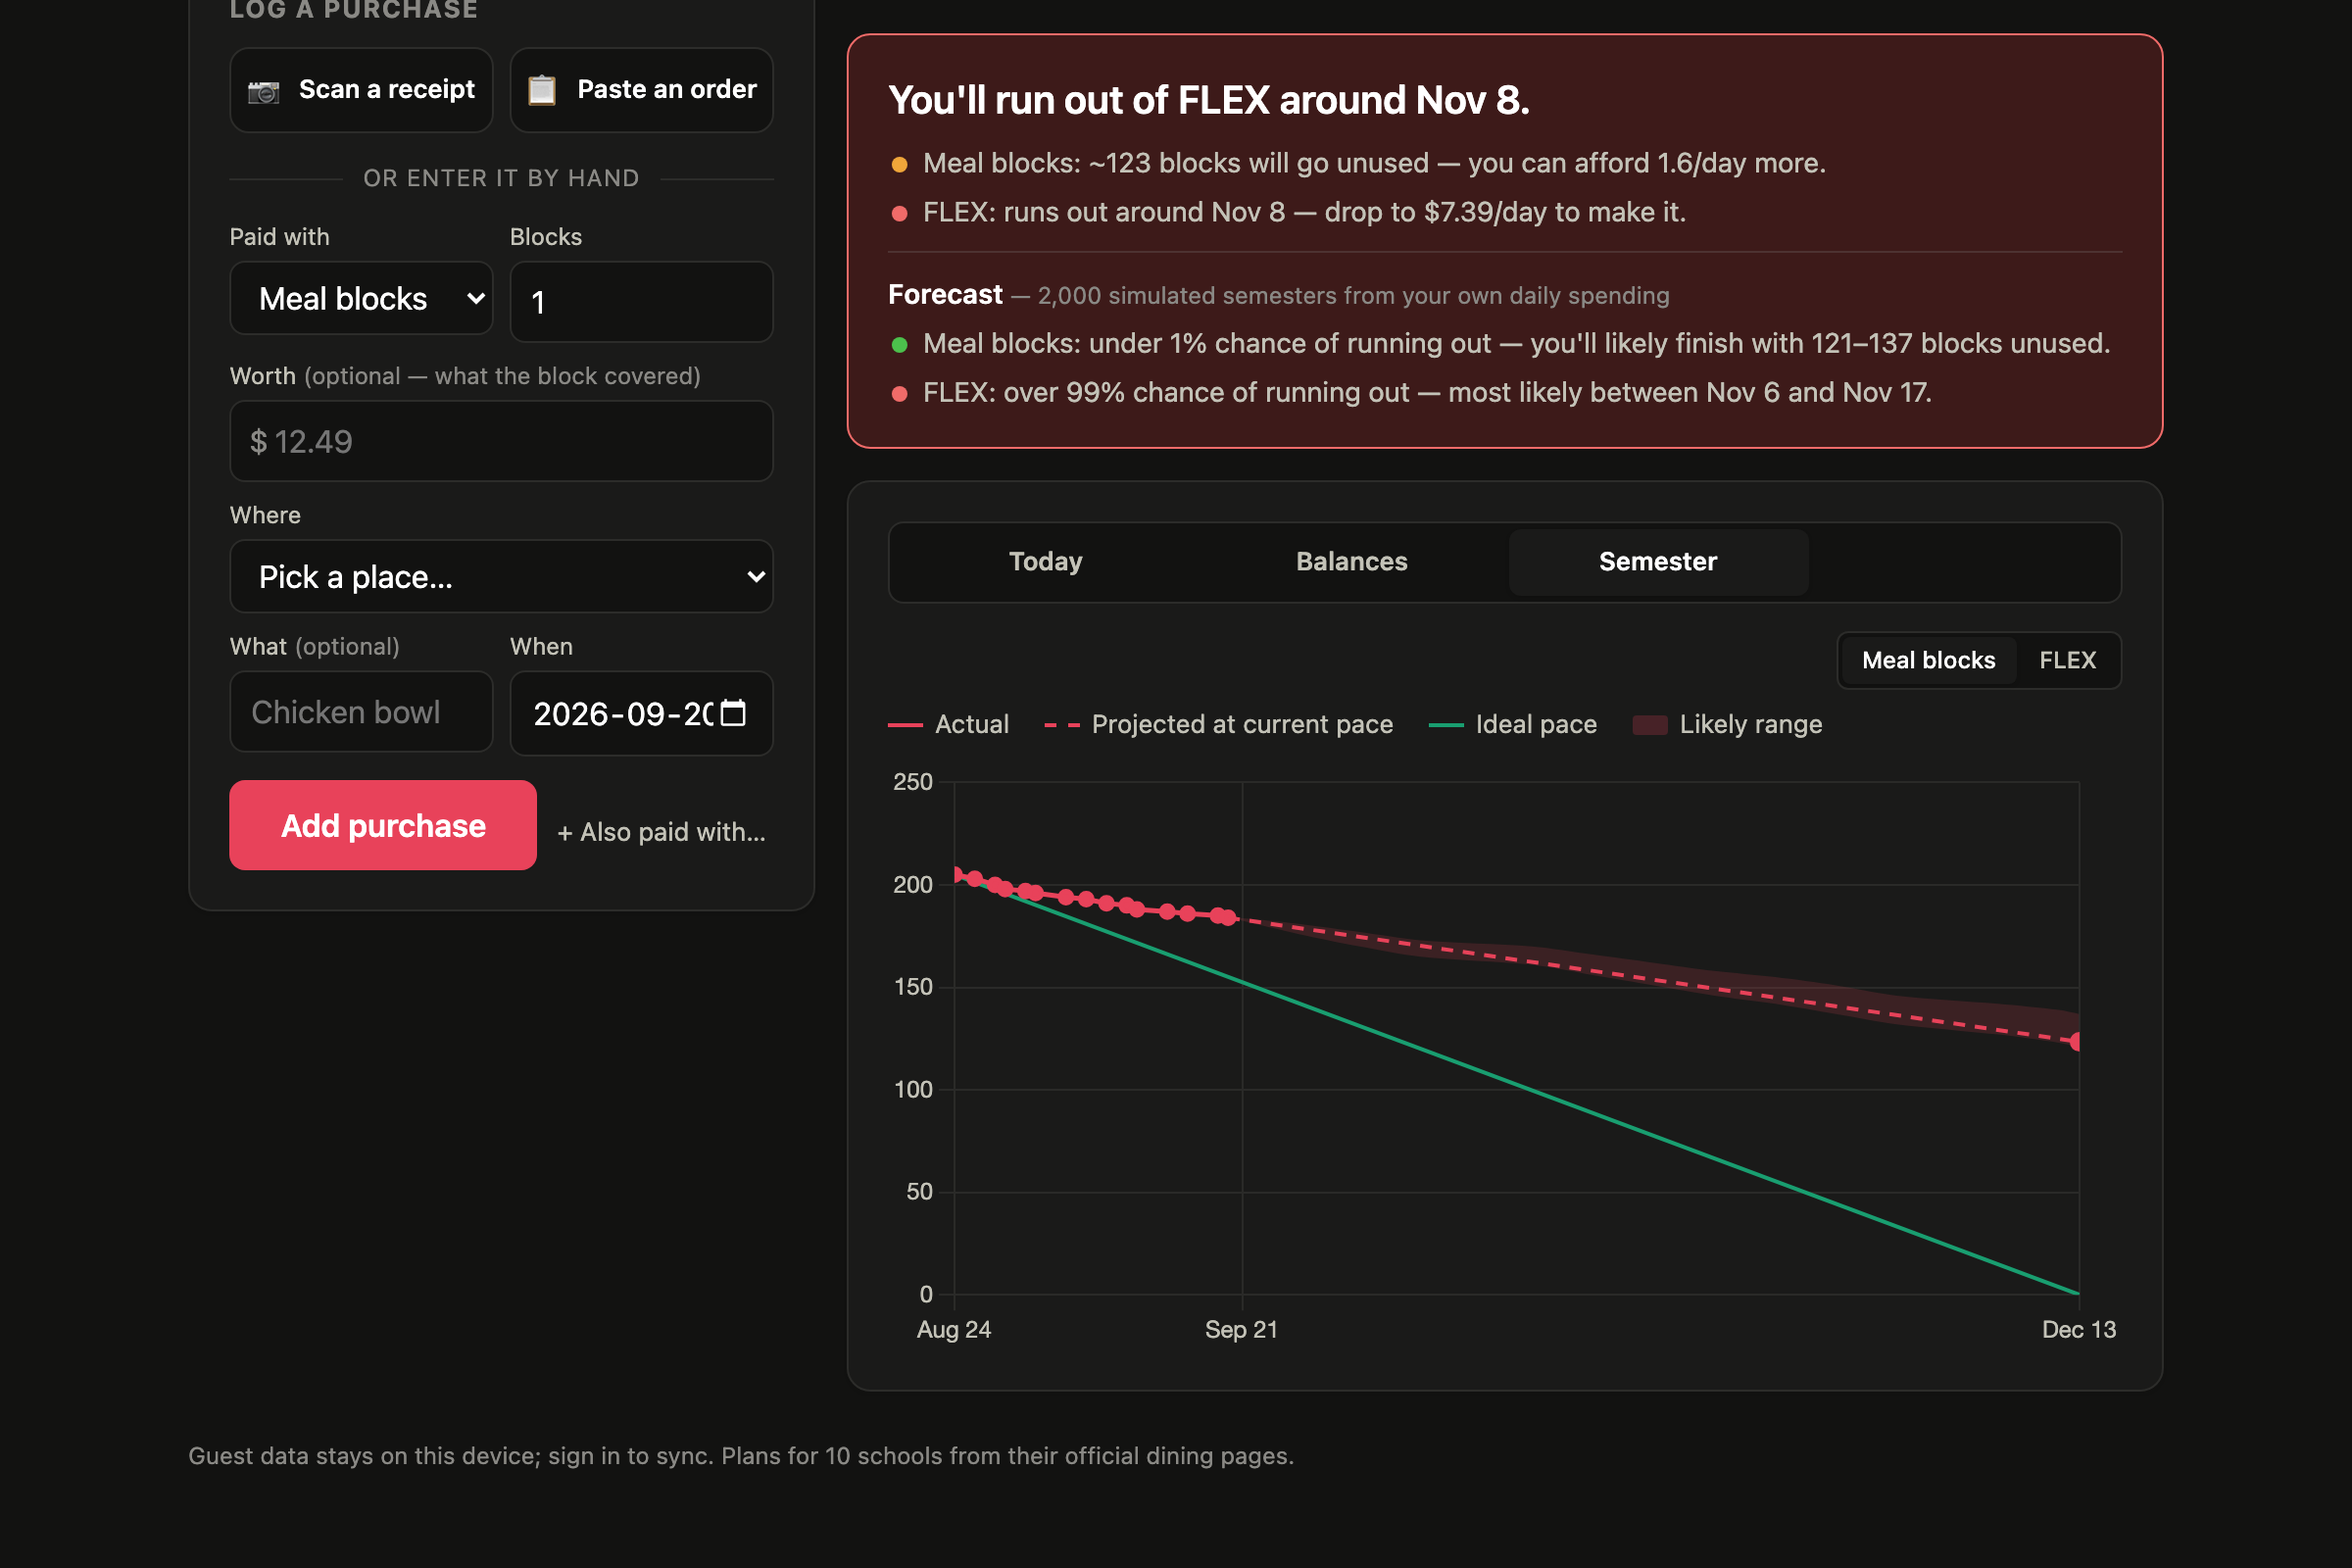
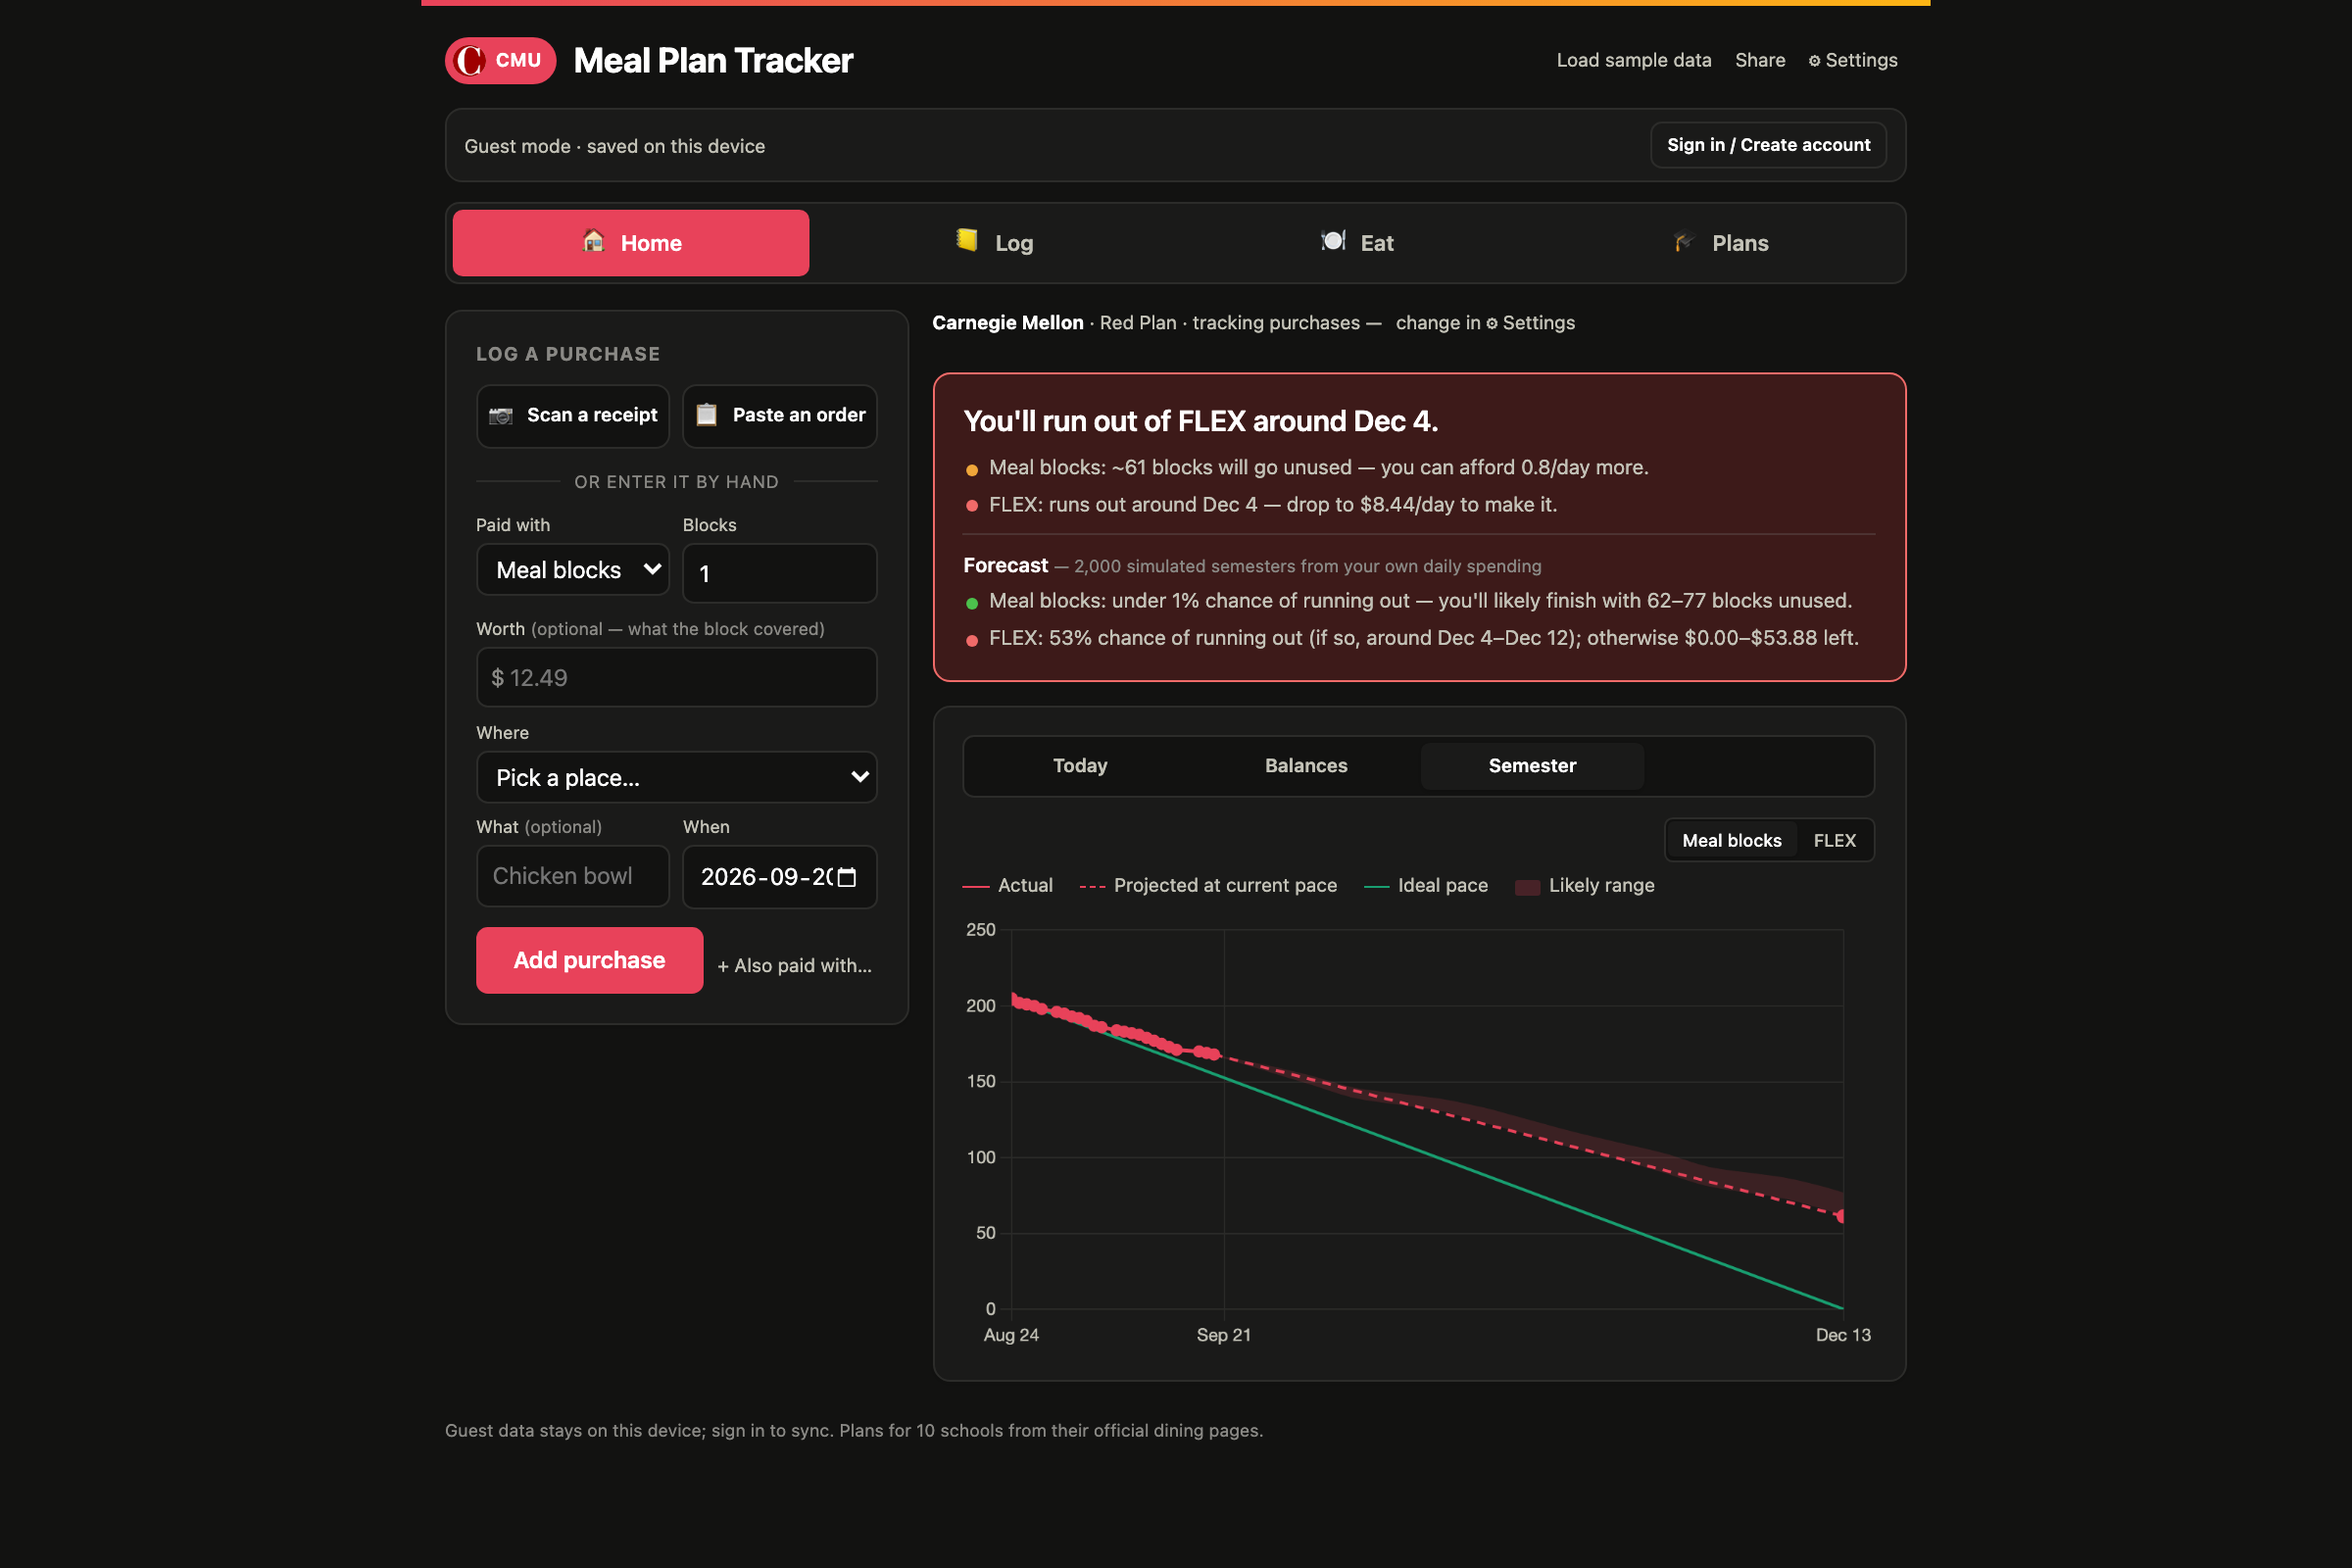
Screenshot: full Home page for the semester chart

diff --git a/index.html b/index.html
@@ -10,7 +10,7 @@
 <meta name="apple-mobile-web-app-capable" content="yes">
 <meta name="apple-mobile-web-app-status-bar-style" content="black-translucent">
 <link rel="apple-touch-icon" href="icon.svg">
-<link rel="stylesheet" href="style.css?v=c0da151-dddfd7">
+<link rel="stylesheet" href="style.css?v=92a1567">
 </head>
 <body>
 <main>
@@ -452,20 +452,20 @@
 </dialog>
 
 <script src="https://cdnjs.cloudflare.com/ajax/libs/Chart.js/4.4.1/chart.umd.min.js"></script>
-<script src="auth-config.js?v=c0da151-dddfd7"></script>
-<script src="account-store.js?v=c0da151-dddfd7"></script>
-<script src="plans.js?v=c0da151-dddfd7"></script>
-<script src="schools.js?v=c0da151-dddfd7"></script>
-<script src="app.js?v=c0da151-dddfd7"></script>
-<script src="ocr.js?v=c0da151-dddfd7"></script>
-<script src="receipt.js?v=c0da151-dddfd7"></script>
-<script src="tips.js?v=c0da151-dddfd7"></script>
-<script src="eat.js?v=c0da151-dddfd7"></script>
-<script src="forecast.js?v=c0da151-dddfd7"></script>
-<script src="today.js?v=c0da151-dddfd7"></script>
-<script src="advisor.js?v=c0da151-dddfd7"></script>
-<script src="share.js?v=c0da151-dddfd7"></script>
-<script src="tour.js?v=c0da151-dddfd7"></script>
-<script src="auth.js?v=c0da151-dddfd7"></script>
+<script src="auth-config.js?v=92a1567"></script>
+<script src="account-store.js?v=92a1567"></script>
+<script src="plans.js?v=92a1567"></script>
+<script src="schools.js?v=92a1567"></script>
+<script src="app.js?v=92a1567"></script>
+<script src="ocr.js?v=92a1567"></script>
+<script src="receipt.js?v=92a1567"></script>
+<script src="tips.js?v=92a1567"></script>
+<script src="eat.js?v=92a1567"></script>
+<script src="forecast.js?v=92a1567"></script>
+<script src="today.js?v=92a1567"></script>
+<script src="advisor.js?v=92a1567"></script>
+<script src="share.js?v=92a1567"></script>
+<script src="tour.js?v=92a1567"></script>
+<script src="auth.js?v=92a1567"></script>
 </body>
 </html>

diff --git a/scripts/screenshots.py b/scripts/screenshots.py
@@ -11,7 +11,7 @@ OUT = Path(__file__).resolve().parent.parent / 'docs' / 'screenshots'
 OUT.mkdir(parents=True, exist_ok=True)
 SHOTS = [
     ('01-home-today',    'demo&tab=home&dash=today'),
-    ('02-home-semester', 'demo&tab=home&dash=chart', '#dashCard'),
+    ('02-home-semester', 'demo&tab=home&dash=chart', None, 0.74),
     ('03-log-where',     'demo&tab=insights&pane=where'),
     ('04-log-blockvalue','demo&tab=insights&pane=blocks'),
     ('05-eat',           'demo&tab=eat'),
@@ -22,10 +22,13 @@ with sync_playwright() as p:
     b = p.chromium.launch()
     ctx = b.new_context(viewport={'width': 1200, 'height': 800}, device_scale_factor=2, color_scheme='dark')
     page = ctx.new_page()
-    for name, q, *scroll in SHOTS:
+    for name, q, *rest in SHOTS:
+        scroll = rest[0] if rest else None
+        zoom = rest[1] if len(rest) > 1 else None
         page.goto(f'{BASE}?{q}', wait_until='networkidle')
         page.wait_for_timeout(1500)          # charts animate in; live data settles
-        if scroll: page.evaluate(f"document.querySelector('{scroll[0]}').scrollIntoView({{block: 'start'}}); window.scrollBy(0, -16)"); page.wait_for_timeout(400)
+        if zoom: page.evaluate(f"document.body.style.zoom='{zoom}'"); page.evaluate("chartBalance && chartBalance.resize()"); page.wait_for_timeout(600)
+        if scroll: page.evaluate(f"document.querySelector('{scroll}').scrollIntoView({{block: 'start'}}); window.scrollBy(0, -16)"); page.wait_for_timeout(400)
         if 'tab=eat' in q:
             page.evaluate("(async () => { showTab('eat'); await refreshEat(); renderPick(); })()"); page.wait_for_timeout(1200)
         page.screenshot(path=str(OUT / f'{name}.png'))
